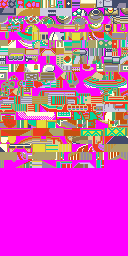
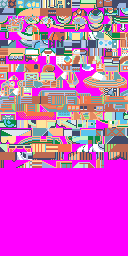
before i create image with matched tiles on top

diff --git a/compilers.py b/compilers.py
@@ -1,7 +1,8 @@
 import os
 from solver import solve, solve_secondary
-from pal_tiles import build_palettes, export_jasc, export_indexed_image
+from pal_tiles import build_palettes, export_jasc, export_indexed_image, export_indexed_image_secondary
 from metatiles import build_metatiles_bin
+from config import MAGENTA
 
 def compile_primary(path, out_dir, optimal=False, is_primary=True):
     result = solve(path, optimal)
@@ -27,13 +28,37 @@ def compile_secondary(path, out_dir, path_primary=None, optimal=False):
         if result is None:
             return
 
-        img, tiles, assignment = result
+        img, tiles, assignment, pals_primary = result
+
+        print(assignment)
 
         os.makedirs(out_dir, exist_ok=True)
         os.makedirs(out_dir+"/palettes", exist_ok=True)
 
         palettes = build_palettes(tiles, assignment)
 
+        def join_palettes(list_palettes: list, dict_palettes: dict) -> list:
+            """
+            Prepends dict_palettes to list_palettes, returning a single list of lists.
+
+            :param list_palettes: list of lists of (R, G, B) tuples (e.g. from build_palettes)
+            :param dict_palettes: dict mapping int -> set of (R, G, B) tuples (e.g. from load_jasc_pals)
+            :return: list of lists of (R, G, B) tuples
+            """
+            joined = []
+
+            for pal_id in sorted(dict_palettes.keys()):
+                joined.append(list(dict_palettes[pal_id]))
+
+            joined.extend(list_palettes)
+
+            return joined
+
+        #print(palettes)
+        #print(pals_primary)
+        #join_palettes(palettes,pals_primary)
+        assignment_new = [x + 6 for x in assignment]
+
         export_jasc(palettes, out_dir+"/palettes",False)
-        export_indexed_image(img, assignment, palettes, out_dir)
+        export_indexed_image_secondary(img, assignment_new, join_palettes(palettes,pals_primary), out_dir)
         #build_metatiles_bin(path, img, assignment, out_dir)

diff --git a/solver.py b/solver.py
@@ -186,11 +186,12 @@ def find_unmatched_tiles(tile_color_sets: list, palettes: dict) -> list:
     return unmatched
 
 def solve_secondary(path, path_primary, optimal):
-    img, tiles, prim_palettes = load_tiles_sec(path, path_primary)
+    img, tiles = load_tiles_sec(path, path_primary)
 
     #print(load_jasc_pals_from_dir(path_primary+"/palettes"))
-    report = compare_tile_colors_to_palettes(tiles, load_jasc_pals_from_dir(path_primary+"/palettes"))
-    unmatched = find_unmatched_tiles(tiles, load_jasc_pals_from_dir(path_primary+"/palettes"))
+    pals_primary=load_jasc_pals_from_dir(path_primary+"/palettes")
+    #report = compare_tile_colors_to_palettes(tiles, pals_primary)
+    unmatched = find_unmatched_tiles(tiles, pals_primary)
 
     #for r in report["results"]:
     #    if r["fits"]:
@@ -198,11 +199,12 @@ def solve_secondary(path, path_primary, optimal):
     #    else:
     #        print(f"Tile {r['tile_index']}: no fit — closest: {r['closest_palette']}, missing: {r['missing_colors']}")
 
-    print(report["summary"])
+    #print(report["summary"])
 
-    print(len(unmatched))
+    print("Number of tiles to matched to secondary palettes: ", len(unmatched))
 
     # Update the reference
+    tiles_before=tiles
     tiles=unmatched
     n = len(tiles)
 
@@ -258,4 +260,4 @@ def solve_secondary(path, path_primary, optimal):
     ]
 
     print("Solution found!")
-    return img, tiles, assignment
+    return img, tiles, assignment, pals_primary

diff --git a/pal_tiles.py b/pal_tiles.py
@@ -101,3 +101,32 @@ def export_indexed_image(img, assignment, palettes, out_dir):
                 composite.putpixel((tx + x, ty + y), idx)
 
     composite.save(os.path.join(out_dir, "tiles.png"), bits=4)
+
+def export_indexed_image_secondary(img, assignment, palettes, out_dir):
+    os.makedirs(out_dir, exist_ok=True)
+
+    w, h = img.size
+    tiles_x = w // TILE_SIZE
+
+    best_palette = max(
+        palettes[6:12],
+        key=lambda p: sum(1 for i, c in enumerate(p) if i and c != (0, 0, 0))
+    )
+
+    composite = Image.new("P", (w, h))
+    composite.putpalette(build_pil_palette(best_palette))
+
+    for i, assigned_p in enumerate(assignment):
+        palette = palettes[assigned_p]
+
+        tx = (i % tiles_x) * TILE_SIZE
+        ty = (i // tiles_x) * TILE_SIZE
+
+        for y in range(TILE_SIZE):
+            for x in range(TILE_SIZE):
+                raw = img.getpixel((tx + x, ty + y))
+
+                idx = 0 if raw == MAGENTA else nearest_palette_index(raw, palette)
+                composite.putpixel((tx + x, ty + y), idx)
+
+    composite.save(os.path.join(out_dir, "tiles.png"), bits=4)

diff --git a/tiles_secondary.py b/tiles_secondary.py
@@ -216,7 +216,7 @@ def load_tiles_sec(secondary_path,primary_path):
         tile_color_sets.append(colors)
     output_img.save(os.path.expandvars("$HOME/Documents/pkmndecomps/pyrytiles/debug.png"))
 
-    return output_img, tile_color_sets, palettes
+    return output_img, tile_color_sets
 
 #input_dir = os.path.expandvars("$HOME/Documents/pkmndecomps/pyrytiles/decompiletest3")
 #input_dir_secondary = os.path.expandvars("$HOME/Documents/pkmndecomps/pyrytiles/decompiletestsec/output2")

diff --git a/main.py b/main.py
@@ -28,4 +28,4 @@ input_dir_secondary = os.path.expandvars("$HOME/Documents/pkmndecomps/pyrytiles/
 input_dir_primary = os.path.expandvars("$HOME/Documents/pkmndecomps/pyrytiles/decompiletest3")
 output_dir = os.path.expandvars("$HOME/Documents/pkmndecomps/pyrytiles/sec_comp_test1/output")
 
-compile_secondary(input_dir_secondary, output_dir, input_dir_primary, optimal=True)
+compile_secondary(input_dir_secondary, output_dir, input_dir_primary, optimal=False)
